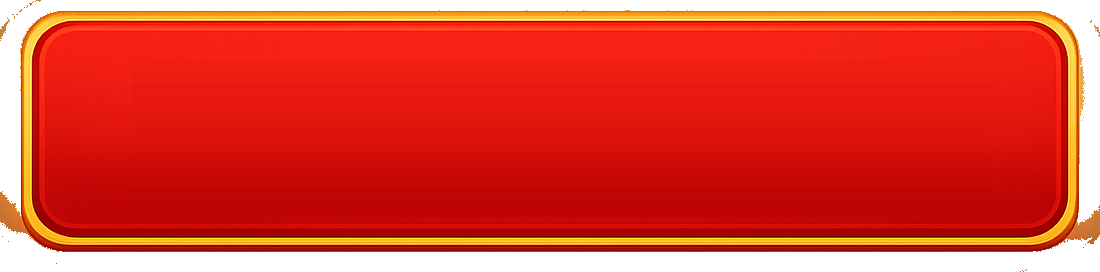
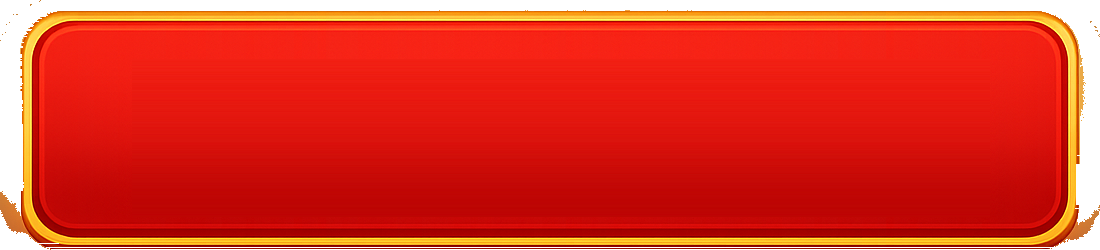
繼續接單按鈕重新精確去背，移除四角黑色殘影
只保留金邊內側純色按鈕本體，砍掉金邊外所有半透明殘留像素

Changed region(s): [[0.0, 0.7, 1.0, 1.0], [0.0, 0.028, 1.0, 0.224]]

diff --git a/slot/index.html b/slot/index.html
@@ -5,7 +5,7 @@
   <meta name="viewport" content="width=device-width, initial-scale=1, viewport-fit=cover" />
   <meta name="theme-color" content="#140b07" />
   <title>上野燒肉拉霸機</title>
-  <link rel="stylesheet" href="./style.css?v=5" />
+  <link rel="stylesheet" href="./style.css?v=6" />
 </head>
 <body>
   <main class="slot-app">